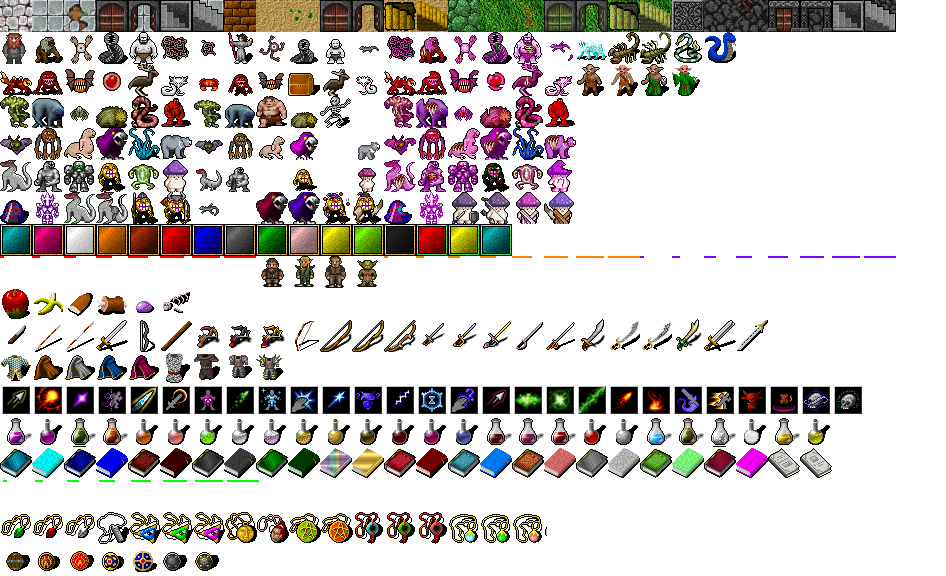
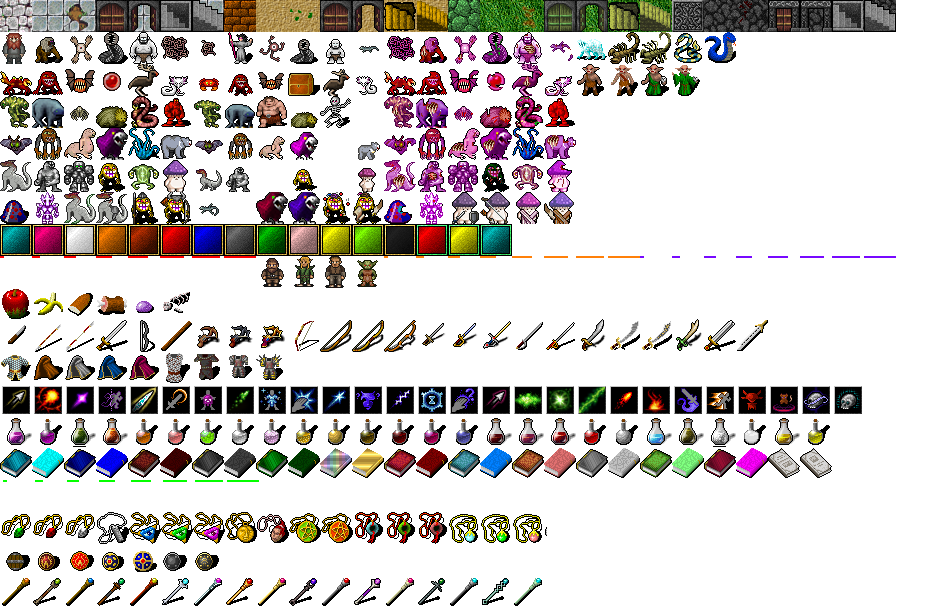
add first staffs

diff --git a/assets/items.js b/assets/items.js
@@ -90,6 +90,32 @@ Game.ItemRepository.define('knife', {
   }
 });
 
+Game.ItemRepository.define('short staff', {
+  name: "short staff",
+  Symbol: "staff"+(Math.floor(Math.random()*16)+1),
+  type: "weapon",
+  options: {
+    size: "onehand",
+    minatk: 1,
+    maxatk: 2,
+    int: 1
+  }
+});
+
+Game.ItemRepository.define('staff', {
+  name: "staff",
+  Symbol: "staff"+(Math.floor(Math.random()*16)+1),
+  level: 2,
+  price: 6,
+  type: "weapon",
+  options: {
+    size: "twohand",
+    minatk: 2,
+    maxatk: 5,
+    int: 2
+  }
+});
+
 Game.ItemRepository.define('spear', {
   name: "spear",
   Symbol: "spear",
@@ -388,6 +414,20 @@ Game.ItemRepository.define('simpleshield', {
   options: {
     size: "onehand",
     armor: 1
+  }
+});
+
+Game.ItemRepository.define('bronzeshield', {
+  name: "bronze shield",
+  Symbol: "shield2",
+  level: 3,
+  price: 6,
+  type: "weapon",
+  options: {
+    size: "onehand",
+    armor: 3,
+    con: 1
+    
   }
 });
 

diff --git a/assets/tilemap.js b/assets/tilemap.js
@@ -214,6 +214,23 @@ var gameTilemap = {
   "shortsword9": [672,320],
   "longsword2": [704,320],
   "longsword3": [736,320],
+  "staff1": [0,576],
+  "staff2": [32,576],
+  "staff3": [64,576],
+  "staff4": [96,576],
+  "staff5": [128,576],
+  "staff6": [160,576],
+  "staff7": [192,576],
+  "staff8": [224,576],
+  "staff9": [256,576],
+  "staff10": [288,576],
+  "staff11": [320,576],
+  "staff12": [352,576],
+  "staff13": [384,576],
+  "staff14": [416,576],
+  "staff15": [448,576],
+  "staff16": [480,576],
+  "staff17": [512,576],
 //skills
   "shoot": [0,384],
   "fireball": [32,384],
